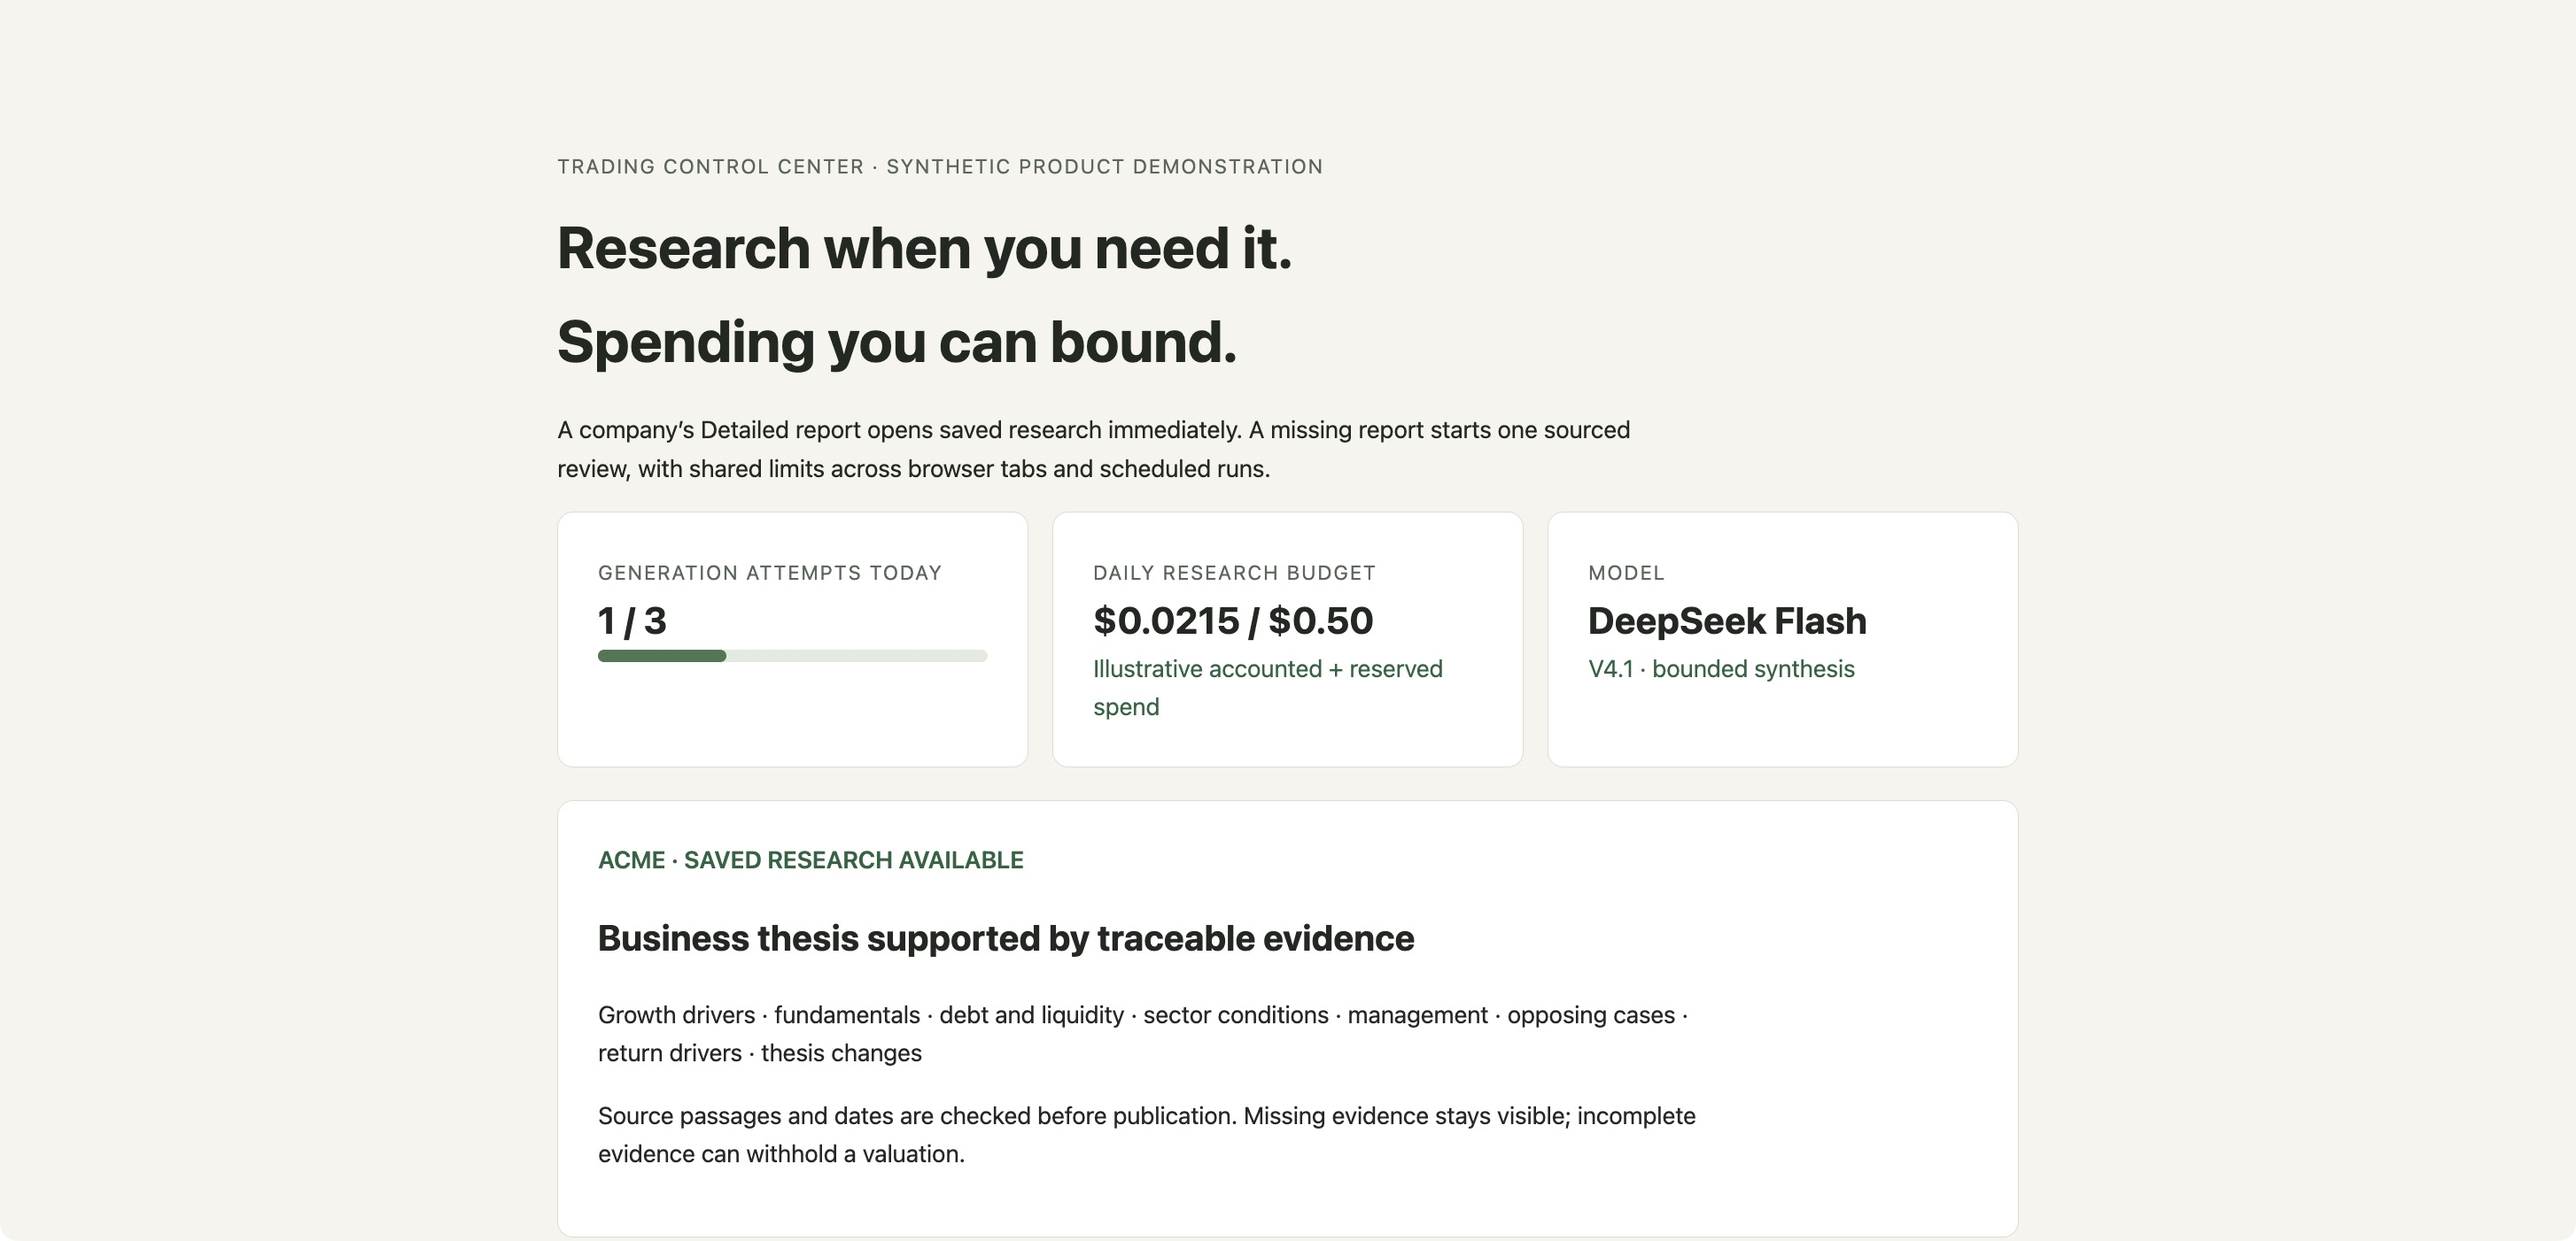
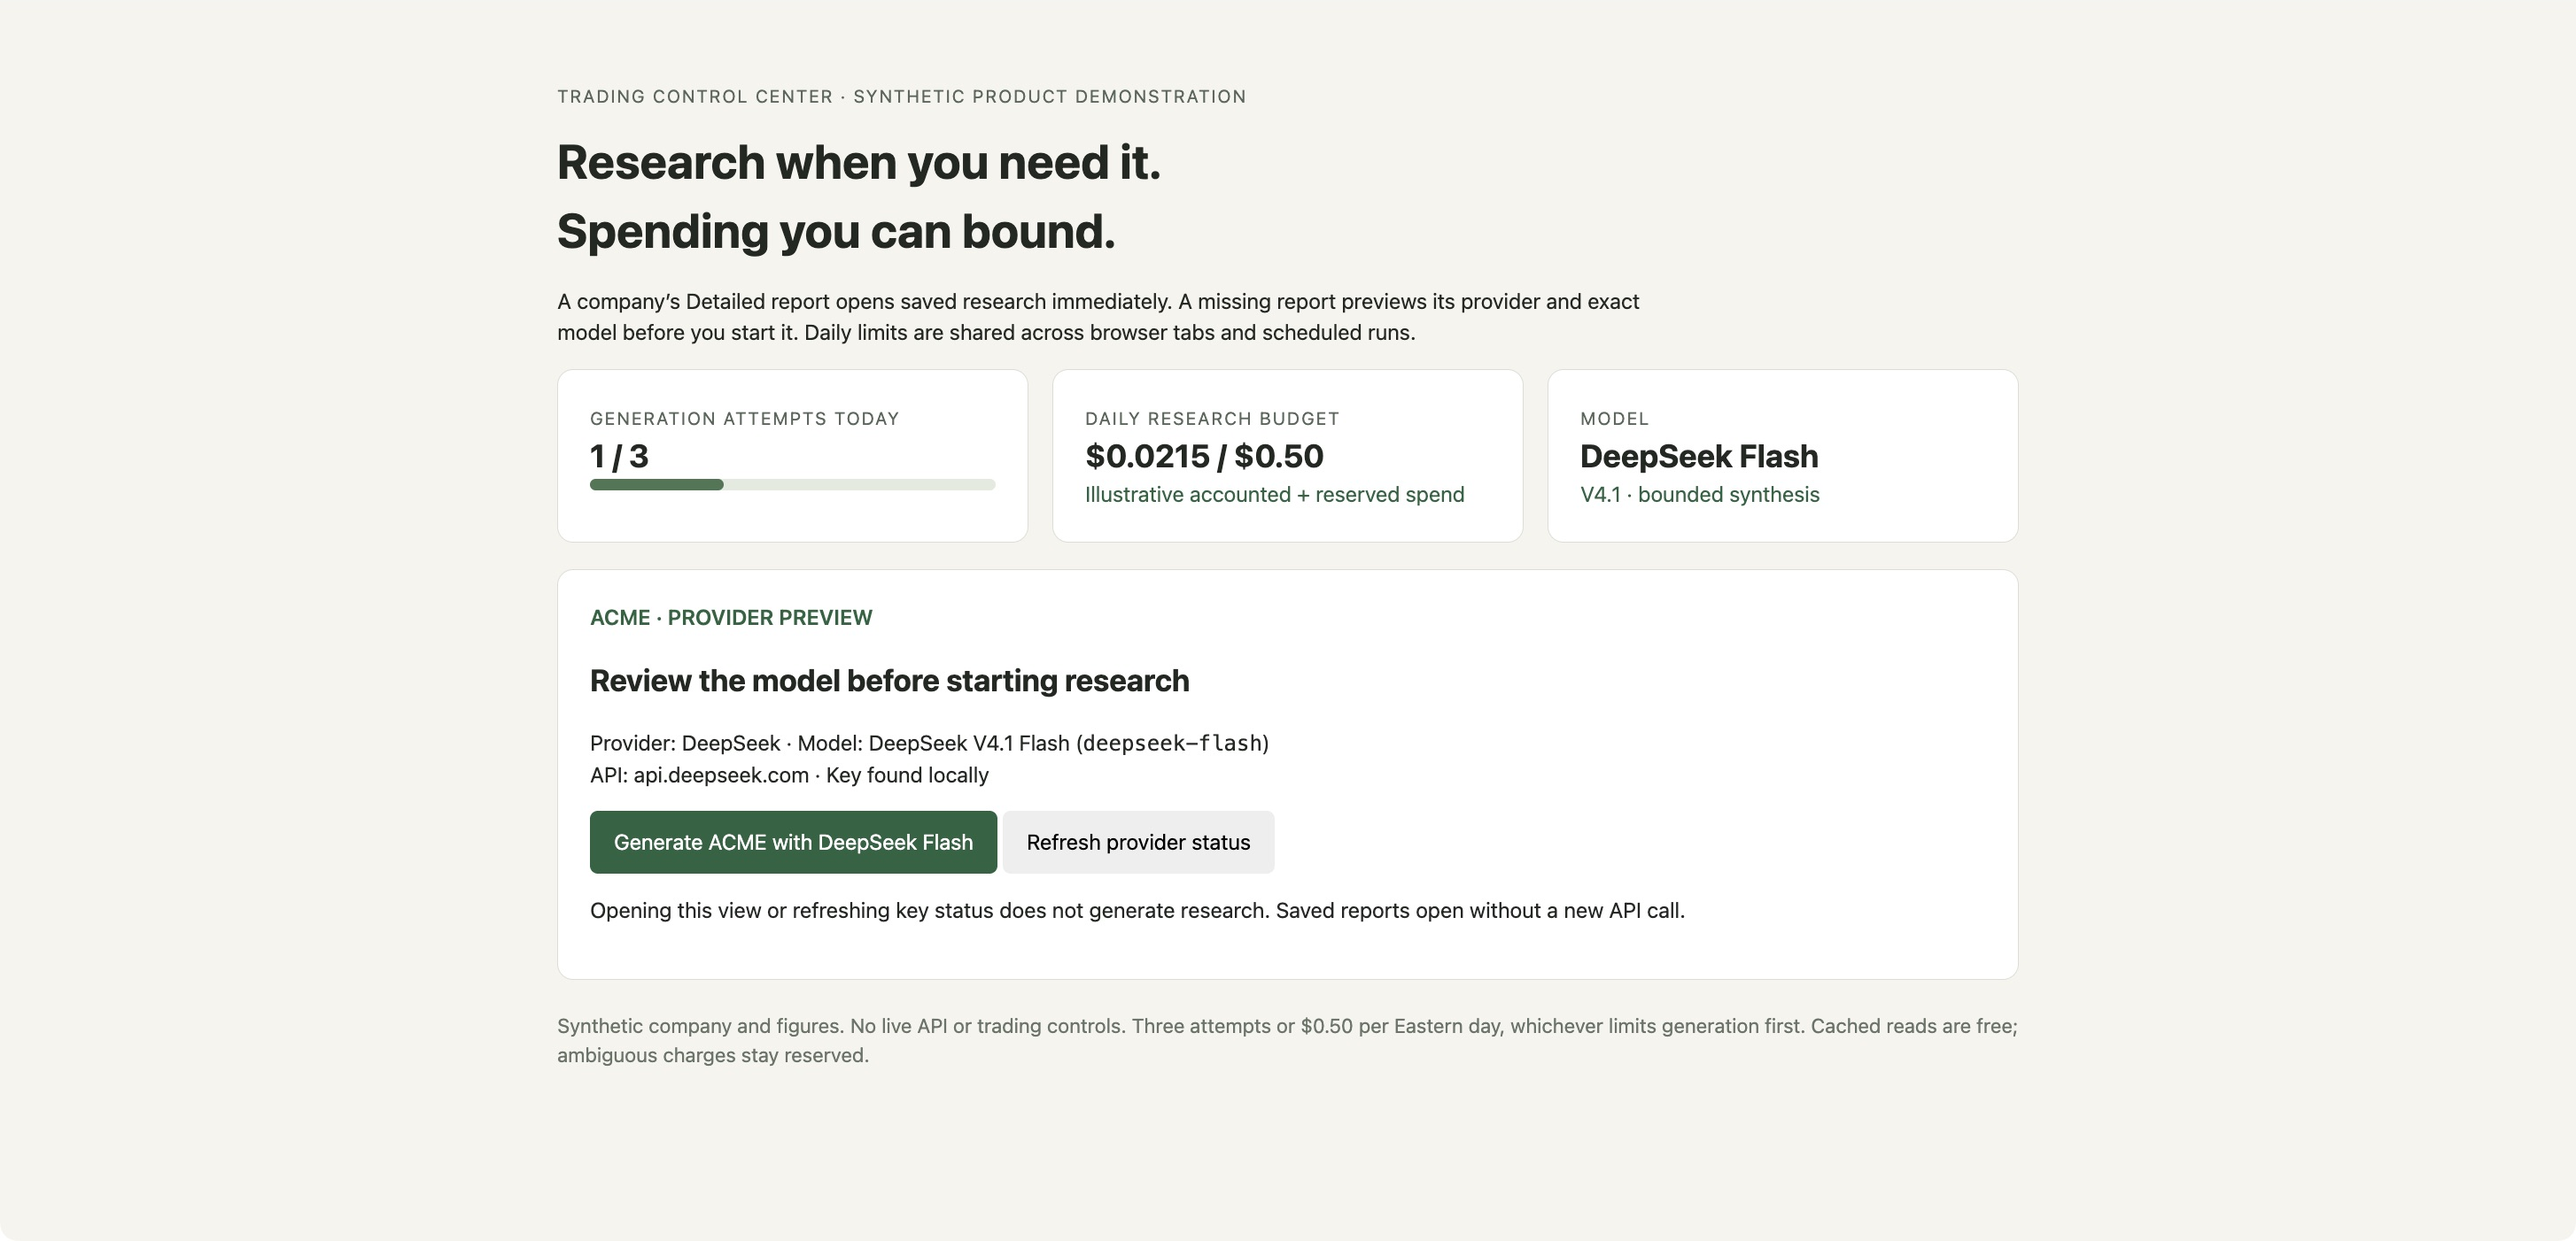
Show provider preview before on-demand research

diff --git a/docs/budgeted-detailed-reports.md b/docs/budgeted-detailed-reports.md
@@ -14,8 +14,10 @@ multiple tabs, retries and scheduled work could also multiply API spending.
 
 ## Product decision
 
-Reuse saved research first. A missing report starts one background review and
-shows progress, failures and an explicit retry. Browser requests, CLI work and
+Reuse saved research first. A missing report previews its ticker, provider,
+exact model, API host and current key readiness before the reader starts it.
+Only the named Generate button starts background research; progress, failures
+and an explicit retry remain visible. Browser requests, CLI work and
 the weekly schedule share a limit of three hosted generation attempts or $0.50
 per Eastern calendar day. The interface shows accounted and reserved spend.
 
@@ -27,6 +29,8 @@ visible evidence gaps.
 
 ## Guardrails
 
+- Generation requests must name the previewed model. Missing or different
+  models are refused before work starts. Refreshing readiness starts no report.
 - Duplicate clicks share work. A company-data redraw cannot lose or duplicate
   the creation request.
 - Durable reservations prevent concurrent requests from spending the same
@@ -46,3 +50,13 @@ JavaScript checks covered duplicate prevention, redraws during status/create,
 cached reports and all 41 console entry points. The live company request
 stopped because the local service had no DeepSeek key configured; no paid API
 request was sent. Provider output quality remains unverified for that request.
+
+## Provider preview follow-up
+
+A key available in an interactive shell was absent from the background service's
+credential store. The existing key was validated with a read-only provider
+request and stored in the encrypted local vault, preserving other credentials.
+Current readiness is now separate from the last failed request. No report was
+generated during that verification. The preview release passed 472 affected
+Python checks plus JavaScript cases for explicit starts, model selection,
+redraws and refreshing key status without generation.
